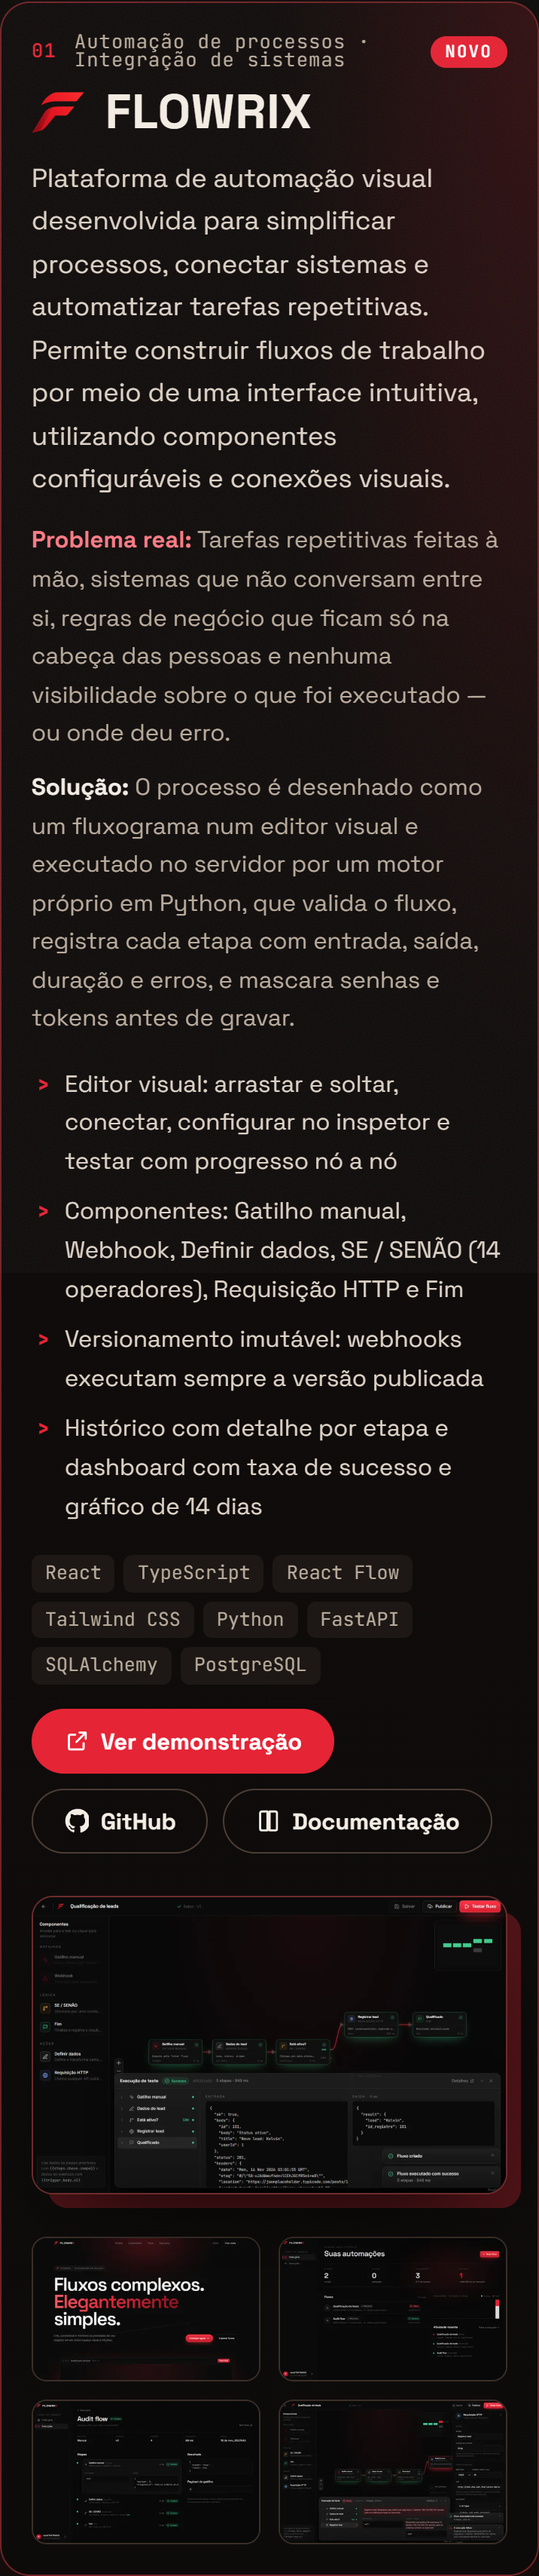
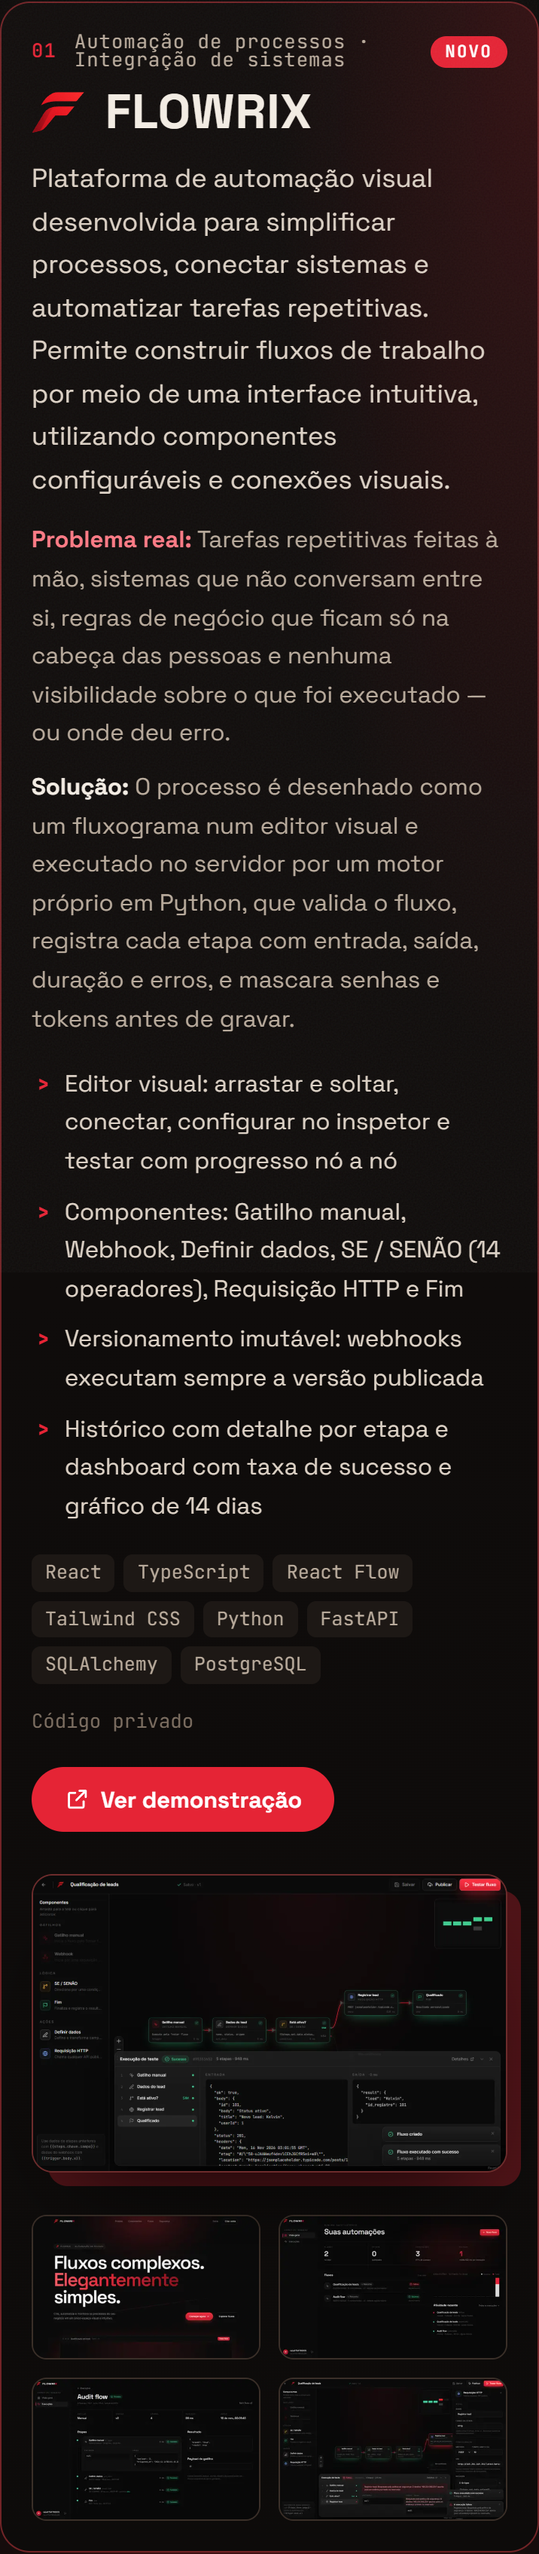
fix: hide private repository links for FLOWRIX and ZENTRA

diff --git a/tests/portfolio.test.js b/tests/portfolio.test.js
@@ -41,6 +41,13 @@ describe('configuração de projetos', () => {
     }
   });
 
+  it('apenas FLOWRIX e ZENTRA têm código privado; os aplicativos Windows mantêm o GitHub', () => {
+    expect(projects.filter((p) => p.private).map((p) => p.id)).toEqual(['flowrix', 'zentra']);
+    for (const p of projects.filter((x) => !x.private)) {
+      expect(renderProjectCard(p, 0)).toContain(`href="https://github.com/${p.repo}"`);
+    }
+  });
+
   it('apenas o FLOWRIX está em destaque', () => {
     expect(projects.filter((p) => p.featured).map((p) => p.id)).toEqual(['flowrix']);
   });
@@ -61,27 +68,31 @@ describe('renderização', () => {
     expect(esc('<a href="x">&\'')).toBe('&lt;a href=&quot;x&quot;&gt;&amp;&#39;');
   });
 
-  it('gera o card em destaque do FLOWRIX com demo, GitHub, documentação, solução, marca e galeria', () => {
+  it('gera o card em destaque do FLOWRIX com demo, solução, marca e galeria — sem links para o código privado', () => {
     const html = renderProjectCard(projects[0], 0);
     expect(html).toContain('project--featured');
     expect(html).toContain('--brand:#E52435');
     expect(html).toContain('href="https://flowdesk-automation.netlify.app"');
-    expect(html).toContain('href="https://github.com/kelvinsg218/flowdesk-automation"');
-    expect(html).toContain('docs/GUIA-DO-USUARIO.md');
+    expect(html).not.toContain('github.com/kelvinsg218/flowdesk-automation');
+    expect(html).not.toContain('Documentação');
+    expect(html).not.toContain('data-repo');
+    expect(html).toContain('Código privado');
     expect(html).toContain('Solução:');
     expect(html).toContain('flowrix-symbol.svg');
     expect(html.match(/data-lightbox /g)).toHaveLength(4);
     expect(html).not.toContain('Baixar release'); // FLOWRIX não tem release publicada
   });
 
-  it('gera o card do ZENTRA no padrão dos demais, com sistema publicado, GitHub e símbolo da marca', () => {
+  it('gera o card do ZENTRA no padrão dos demais, com sistema publicado, símbolo da marca e código privado', () => {
     const z = projects.find((p) => p.id === 'zentra');
     const html = renderProjectCard(z, projects.indexOf(z));
     expect(html).not.toContain('project--featured');
     expect(html).toContain('>05<');
     expect(html).toContain('href="https://solucao-total.netlify.app"');
     expect(html).toContain('Acessar sistema');
-    expect(html).toContain('href="https://github.com/kelvinsg218/Solucao_Total"');
+    expect(html).not.toContain('github.com/kelvinsg218/Solucao_Total');
+    expect(html).not.toContain('data-repo');
+    expect(html).toContain('Código privado');
     expect(html).toContain('zentra-simbolo.svg');
     expect(html).toContain('zentra-1200.webp');
     expect(html).not.toContain('Baixar release');
@@ -168,9 +179,11 @@ describe('terminal', () => {
   });
 
   it('abre o repositório do projeto pelo número', () => {
-    expect(runCommand(cmds, 'abrir 1').open).toBe('https://github.com/kelvinsg218/flowdesk-automation');
+    expect(runCommand(cmds, 'abrir 1').open).toBe('https://flowdesk-automation.netlify.app');
+    expect(runCommand(cmds, 'abrir 1').text).toContain('código privado');
+    expect(runCommand(cmds, 'abrir 2').open).toBe('https://github.com/kelvinsg218/Windows-Maintenance-Agent');
     expect(runCommand(cmds, 'abrir 4').open).toBe('https://github.com/kelvinsg218/peripheral-asset-tracker');
-    expect(runCommand(cmds, 'abrir 5').open).toBe('https://github.com/kelvinsg218/Solucao_Total');
+    expect(runCommand(cmds, 'abrir 5').open).toBe('https://solucao-total.netlify.app');
     expect(runCommand(cmds, 'projetos').text).toContain('5. ZENTRA');
     expect(runCommand(cmds, 'abrir 9').text).toMatch(/Uso/);
   });

diff --git a/src/lib/render.js b/src/lib/render.js
@@ -71,14 +71,15 @@ export function renderProjectCard(p, index = 0) {
           ${p.solution ? `<p class="project__solution"><strong>Solução:</strong> ${esc(p.solution)}</p>` : ''}
         </div>`
       : '';
+  const priv = Boolean(p.private);
   const actions = [
     p.demo ? `<a class="btn btn--primary" href="${esc(p.demo)}" target="_blank" rel="noopener">${icon.demo}${esc(p.demoLabel || 'Ver demonstração')}</a>` : '',
-    `<a class="btn ${p.demo ? 'btn--ghost' : 'btn--primary'}" href="${esc(url)}" target="_blank" rel="noopener">${icon.github}${p.demo ? 'GitHub' : 'Ver código'}</a>`,
-    p.docs ? `<a class="btn btn--ghost" href="${esc(p.docs)}" target="_blank" rel="noopener">${icon.docs}Documentação</a>` : '',
-    p.release || p.download ? `<a class="btn btn--ghost" href="${esc(releaseUrl)}" target="_blank" rel="noopener">${icon.download}Baixar release</a>` : '',
+    priv ? '' : `<a class="btn ${p.demo ? 'btn--ghost' : 'btn--primary'}" href="${esc(url)}" target="_blank" rel="noopener">${icon.github}${p.demo ? 'GitHub' : 'Ver código'}</a>`,
+    p.docs && !priv ? `<a class="btn btn--ghost" href="${esc(p.docs)}" target="_blank" rel="noopener">${icon.docs}Documentação</a>` : '',
+    !priv && (p.release || p.download) ? `<a class="btn btn--ghost" href="${esc(releaseUrl)}" target="_blank" rel="noopener">${icon.download}Baixar release</a>` : '',
   ].join('');
   const brandStyle = p.brand?.color ? ` style="--brand:${esc(p.brand.color)}"` : '';
-  return `<article class="project reveal${featured ? ' project--featured' : ''}" id="projeto-${esc(p.id)}" data-repo="${esc(p.repo)}"${brandStyle}>
+  return `<article class="project reveal${featured ? ' project--featured' : ''}" id="projeto-${esc(p.id)}"${priv ? '' : ` data-repo="${esc(p.repo)}"`}${brandStyle}>
     <div class="project__body">
       <p class="project__meta"><span class="project__num">${num}</span>${esc(p.category || '')}${featured ? '<span class="project__badge">Novo</span>' : ''}</p>
       <h3 class="project__title">${logo}${esc(p.name)}</h3>
@@ -86,7 +87,9 @@ export function renderProjectCard(p, index = 0) {
       ${story}
       ${highlights ? `<ul class="project__highlights">${highlights}</ul>` : ''}
       ${stack ? `<ul class="project__stack" aria-label="Tecnologias">${stack}</ul>` : ''}
-      <p class="project__live" data-live aria-live="polite">${p.release ? `Release ${esc(p.release)}` : ''}</p>
+      ${priv
+        ? '<p class="project__live project__private">Código privado</p>'
+        : `<p class="project__live" data-live aria-live="polite">${p.release ? `Release ${esc(p.release)}` : ''}</p>`}
       <div class="project__actions">${actions}</div>
     </div>
     ${img}

diff --git a/src/data/projects.js b/src/data/projects.js
@@ -7,6 +7,8 @@
  * - id          identificador curto e único (usado em âncoras e nomes de imagem)
  * - name        nome exibido
  * - repo        "usuario/repositorio" no GitHub — usado para links e dados ao vivo
+ * - private     (opcional) true = código privado: sem links para o repositório/documentação,
+ *               sem consulta à API do GitHub; mostra "Código privado" e o terminal abre a demo
  * - category    rótulo curto acima do título
  * - summary     uma frase que resume o projeto
  * - problem     o problema real que motivou o projeto
@@ -29,6 +31,7 @@ export const projects = [
     id: 'flowrix',
     name: 'FLOWRIX',
     repo: 'kelvinsg218/flowdesk-automation',
+    private: true,
     category: 'Automação de processos · Integração de sistemas',
     featured: true,
     summary:
@@ -46,7 +49,6 @@ export const projects = [
     stack: ['React', 'TypeScript', 'React Flow', 'Tailwind CSS', 'Python', 'FastAPI', 'SQLAlchemy', 'PostgreSQL'],
     image: 'flowrix',
     imageAlt: 'Editor do FLOWRIX com o fluxo "Qualificação de leads" executado com sucesso, etapa por etapa',
-    docs: 'https://github.com/kelvinsg218/flowdesk-automation/blob/master/docs/GUIA-DO-USUARIO.md',
     demo: 'https://flowdesk-automation.netlify.app',
     brand: { color: '#E52435', logo: 'flowrix-symbol.svg' },
     gallery: [
@@ -120,6 +122,7 @@ export const projects = [
     id: 'zentra',
     name: 'ZENTRA',
     repo: 'kelvinsg218/Solucao_Total',
+    private: true,
     category: 'Gestão de equipes e pessoas',
     summary:
       'Sistema web multiempresa para centralizar a gestão de equipes e pessoas: colaboradores, diaristas, escalas, presenças, pagamentos e processos administrativos em uma única plataforma.',

diff --git a/src/lib/terminal.js b/src/lib/terminal.js
@@ -8,7 +8,7 @@ export function createCommands({ site, projects }) {
         'Comandos disponíveis:',
         '  sobre      quem é Kelvin',
         '  projetos   lista os projetos',
-        '  abrir <n>  abre o projeto n no GitHub',
+        '  abrir <n>  abre o projeto n (GitHub ou sistema publicado)',
         '  stack      tecnologias que uso',
         '  contato    como falar comigo',
         '  github     abre meu perfil no GitHub',
@@ -29,6 +29,10 @@ export function createCommands({ site, projects }) {
       const n = Number.parseInt(arg, 10);
       const p = projects[n - 1];
       if (!p) return `Uso: abrir <1-${projects.length}>`;
+      if (p.private) {
+        if (!p.demo) return `${p.name}: código privado.`;
+        return { text: `${p.name}: código privado — abrindo o sistema publicado ...`, open: p.demo };
+      }
       return { text: `Abrindo ${p.name} ...`, open: `https://github.com/${p.repo}` };
     },
     sudo: () => 'Permissão negada. Mas boa tentativa. 😄',

diff --git a/README.md b/README.md
@@ -8,11 +8,11 @@ Portfólio pessoal interativo que apresenta minha trajetória em suporte de TI, 
 
 | # | Projeto | O que é |
 |---|---|---|
-| 1 | [FLOWRIX](https://github.com/kelvinsg218/flowdesk-automation) · [demonstração](https://flowdesk-automation.netlify.app) | Automação visual de processos: editor de fluxos, motor de execução em Python, webhooks, versionamento e histórico |
+| 1 | FLOWRIX · [demonstração](https://flowdesk-automation.netlify.app) · código privado | Automação visual de processos: editor de fluxos, motor de execução em Python, webhooks, versionamento e histórico |
 | 2 | [Windows Maintenance Agent](https://github.com/kelvinsg218/Windows-Maintenance-Agent) | Manutenção preventiva de Windows 10/11 |
 | 3 | [PC Health Monitor](https://github.com/kelvinsg218/pc-health-monitor) | Diagnóstico da saúde do computador |
 | 4 | [Peripheral Asset Tracker](https://github.com/kelvinsg218/peripheral-asset-tracker) | Inventário de periféricos com histórico de movimentações |
-| 5 | [ZENTRA](https://github.com/kelvinsg218/Solucao_Total) · [sistema publicado](https://solucao-total.netlify.app) | Gestão de equipes e pessoas, multiempresa: colaboradores, diaristas, escalas, presenças, pagamentos e relatórios |
+| 5 | ZENTRA · [sistema publicado](https://solucao-total.netlify.app) · código privado | Gestão de equipes e pessoas, multiempresa: colaboradores, diaristas, escalas, presenças, pagamentos e relatórios |
 
 **🌐 Site publicado:** https://kelvin-garcia.netlify.app
 
@@ -23,10 +23,10 @@ Portfólio pessoal interativo que apresenta minha trajetória em suporte de TI, 
 - **Hero ilustrado** com a arte personalizada, adaptada para desktop, tablet e celular sem distorção e com o rosto sempre enquadrado.
 - **Animações de entrada** e elementos SVG complementares (faíscas, circuitos, código) com parallax sutil — respeitando `prefers-reduced-motion`.
 - **Trajetória** profissional e acadêmica em linha do tempo.
-- **Projetos** gerados a partir de um único arquivo de configuração, com capturas de tela, tecnologias e links de código, release, documentação e demonstração.
+- **Projetos** gerados a partir de um único arquivo de configuração, com capturas de tela, tecnologias e links de código, release, documentação e demonstração. Projetos com código privado (`private: true`) mostram só o sistema publicado e o indicador "Código privado"; o terminal abre a demonstração.
 - **Projeto em destaque** (FLOWRIX) com a identidade visual do próprio projeto (cor e símbolo), problema e solução, e **galeria** de capturas reais com visualização ampliada.
 - **Dados ao vivo do GitHub** (última release, data de atualização, estrelas) via API pública, sem token, com cache de 6 h. Se a API estiver indisponível ou limitada, o site continua mostrando as informações da configuração.
-- **Terminal interativo** (`help`, `sobre`, `projetos`, `abrir 1`, `stack`, `contato`…).
+- **Terminal interativo** (`help`, `sobre`, `projetos`, `abrir 1`, `stack`, `contato`…). `abrir n` abre o GitHub do projeto ou, se o código for privado, o sistema publicado.
 - **Contato** por e-mail (com botão de copiar) e GitHub.
 - **SEO e compartilhamento:** metadados, Open Graph/Twitter Card, JSON-LD, sitemap, favicon personalizado e imagem de prévia para o LinkedIn.
 - **Desempenho:** HTML estático gerado no build (funciona sem JavaScript), imagens AVIF/WebP responsivas (a ilustração caiu de 2,2 MB para ~20–70 KB), placeholder borrado e JS de ~4,5 KB gzip.
@@ -83,7 +83,7 @@ Para o `verify` com `chromium`, instale uma vez o navegador headless: `npx playw
      image: 'meu-projeto',                    // opcional
      release: 'v1.0.0',                       // opcional
      // opcionais — veja o FLOWRIX como exemplo completo:
-     // solution, docs, demo (URLs https), demoLabel, featured: true,
+     // private: true (código privado), solution, docs, demo (URLs https), demoLabel, featured: true,
      // brand: { color: '#E52435', logo: 'arquivo.svg' }, gallery: [{ file, alt }]
    },
    ```
